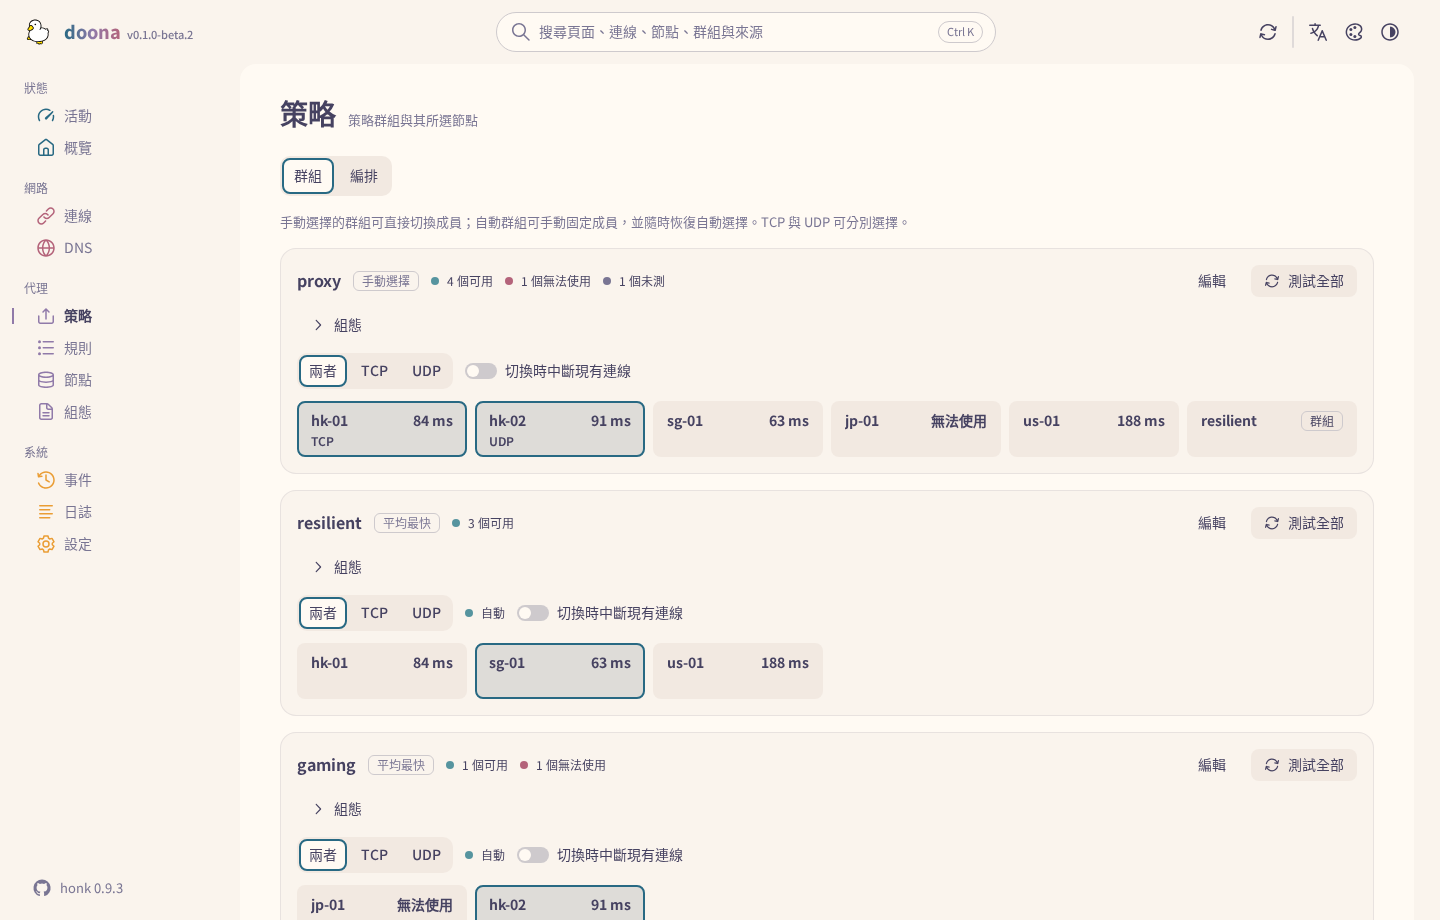
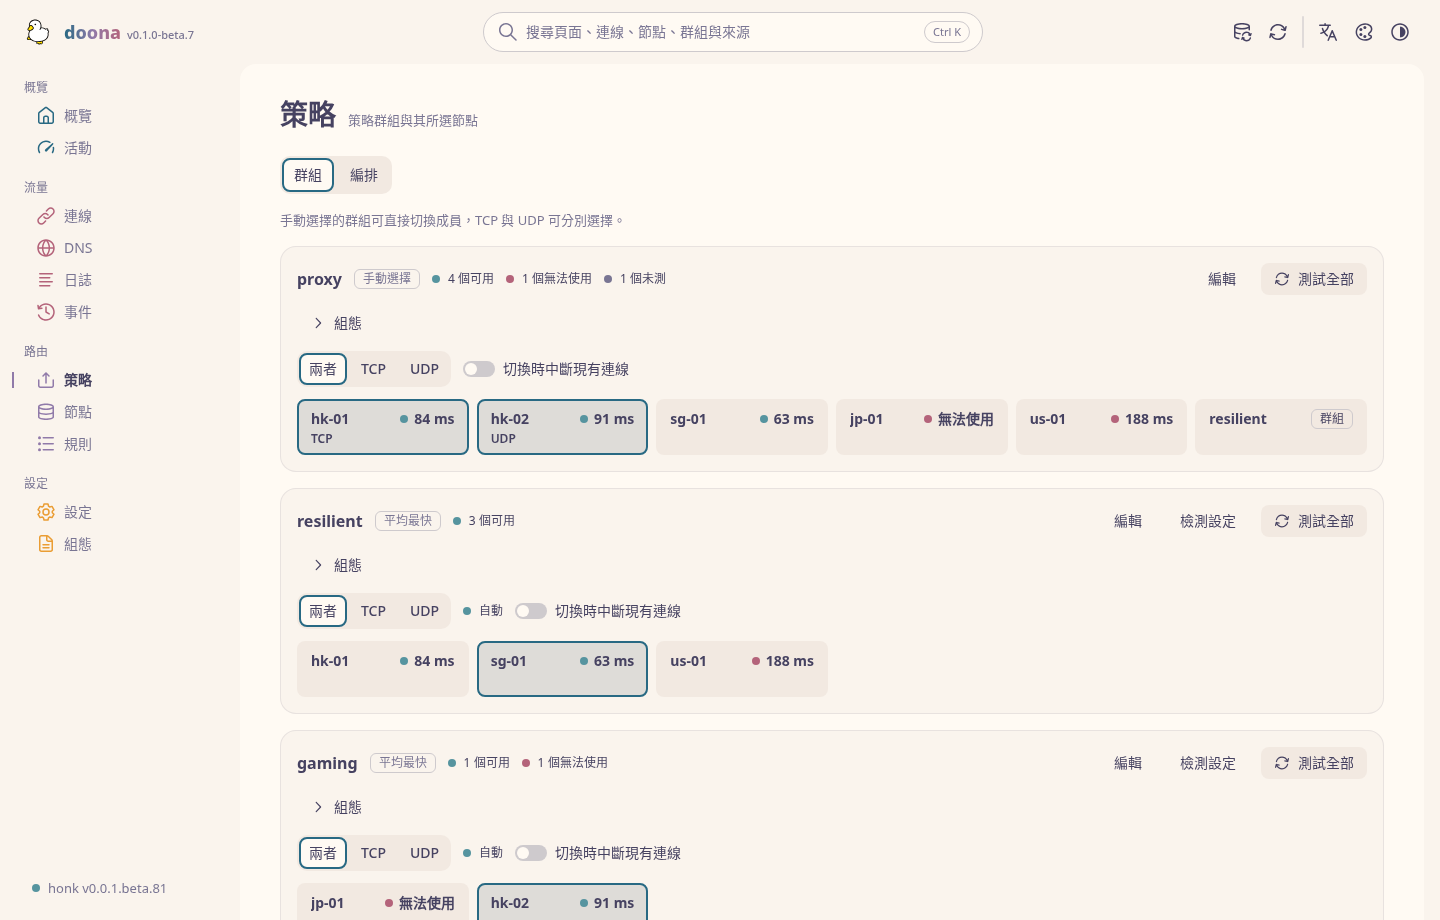
chore(release): prepare 0.1.0-beta.7
Refresh the three README tours for the current interface and document the changes since beta.6. Keep package recipes and download examples aligned with the release asset versions.

diff --git a/install/README.md b/install/README.md
@@ -19,21 +19,21 @@ archive hashes in `SHA256SUMS`.
 
 ## Version spellings
 
-The recipes use tag `v0.1.0-beta.6`. Release assets keep the upstream version without the tag's `v`;
+The recipes use tag `v0.1.0-beta.7`. Release assets keep the upstream version without the tag's `v`;
 package metadata follows each package manager's ordering rules. The same names and versions apply to `doona-fonts`.
 
 | Format           | `doona` asset                                 | Version in package or recipe                       |
 | ---------------- | --------------------------------------------- | -------------------------------------------------- |
-| Program archive  | `doona-0.1.0-beta.6.tar.gz`                   | n/a                                                |
-| Fonts archive    | `doona-fonts-0.1.0-beta.6.tar.gz`             | n/a                                                |
-| Debian           | `doona_0.1.0-beta.6-1_all.deb`                | `0.1.0~beta.6-1`                                   |
-| RPM              | `doona-0.1.0-beta.6-1.noarch.rpm`             | Version `0.1.0~beta.6`, Release `1`                |
-| OpenWrt ipk      | `doona_0.1.0-beta.6-1_all.ipk`                | `0.1.0~beta.6-1`                                   |
-| Arch             | `doona-0.1.0beta6-1-any.pkg.tar.zst`          | pkgver `0.1.0beta6`, pkgrel `1`, default epoch `0` |
-| Alpine APKBUILD  | Download the program and fonts archives above | pkgver `0.1.0_beta6`, pkgrel `0`                   |
-| Gentoo ebuild    | Download the program and fonts archives above | PV `0.1.0_beta6`                                   |
-| OpenWrt Makefile | Download the program and fonts archives above | PKG_VERSION `0.1.0_beta6`, PKG_RELEASE `1`         |
-| Nix recipe       | Download the program and fonts archives above | `0.1.0-beta.6`                                     |
+| Program archive  | `doona-0.1.0-beta.7.tar.gz`                   | n/a                                                |
+| Fonts archive    | `doona-fonts-0.1.0-beta.7.tar.gz`             | n/a                                                |
+| Debian           | `doona_0.1.0-beta.7-1_all.deb`                | `0.1.0~beta.7-1`                                   |
+| RPM              | `doona-0.1.0-beta.7-1.noarch.rpm`             | Version `0.1.0~beta.7`, Release `1`                |
+| OpenWrt ipk      | `doona_0.1.0-beta.7-1_all.ipk`                | `0.1.0~beta.7-1`                                   |
+| Arch             | `doona-0.1.0beta7-1-any.pkg.tar.zst`          | pkgver `0.1.0beta7`, pkgrel `1`, default epoch `0` |
+| Alpine APKBUILD  | Download the program and fonts archives above | pkgver `0.1.0_beta7`, pkgrel `0`                   |
+| Gentoo ebuild    | Download the program and fonts archives above | PV `0.1.0_beta7`                                   |
+| OpenWrt Makefile | Download the program and fonts archives above | PKG_VERSION `0.1.0_beta7`, PKG_RELEASE `1`         |
+| Nix recipe       | Download the program and fonts archives above | `0.1.0-beta.7`                                     |
 
 The beta binary recipes were last exercised against a local `pnpm package` build: `abuild -r` in an Alpine 3.22
 container, the OpenWrt SDK for 24.10 (ipk) and 25.12 (apk), and nfpm 2.47 for deb, rpm, ipk and Arch, each
@@ -42,7 +42,7 @@ and 25.12, Alpine 3.22), and the ebuild through `pkgcheck scan` and `emerge` in 
 keyworded untested; the overlay's CI installs it). The recipes need new release hashes before submission.
 
 The overlay's `AGENTS.md` governs the ebuild's submission: commit with `pkgdev commit --scan false --signoff`
-under the subject `net-proxy/doona: new package, add 0.1.0_beta6`, keep the `Manifest` in the same commit, and add
+under the subject `net-proxy/doona: new package, add 0.1.0_beta7`, keep the `Manifest` in the same commit, and add
 a `.github/workflows/overlay.toml` entry in `category/package` order. The semver beta tag maps onto the
 ebuild's pre-release version with this overlay rule:
 

diff --git a/README.md b/README.md
@@ -47,10 +47,10 @@ doona targets the native API implemented by honk's `feat/native-api` branch; tha
 
 ## Install
 
-Release archives (`doona-<version>.tar.gz`, the optional `doona-fonts-<version>.tar.gz` with Noto Sans TC and SC, and `SHA256SUMS`) are attached to tags on the [releases page](https://github.com/Zakkaus/doona/releases); until the first tag, build them yourself as described under [Development](#development). Verify and extract the files into the directory the engine or web server will serve:
+Release archives (`doona-<version>.tar.gz`, the optional `doona-fonts-<version>.tar.gz` with Noto Sans TC and SC, and `SHA256SUMS`) are attached to tags on the [releases page](https://github.com/Zakkaus/doona/releases). Build from source as described under [Development](#development). Verify and extract the files into the directory the engine or web server will serve:
 
 ```sh
-VERSION=v0.1.0-beta.6  # replace with the downloaded release tag
+VERSION=0.1.0-beta.7  # replace with the downloaded release version, without v
 sha256sum --ignore-missing -c SHA256SUMS
 sudo mkdir -p /usr/share/doona
 sudo tar -xzf "doona-${VERSION}.tar.gz" -C /usr/share/doona
@@ -93,15 +93,15 @@ The activity page then shows the running engine. Add a subscription or paste sha
 | Page          | Shows                                                                                                           |
 | ------------- | --------------------------------------------------------------------------------------------------------------- |
 | Activity      | Outbound mode, traffic and memory, active connections, node latency, outbound usage, top clients, notifications |
-| Overview      | Engine and eBPF state, traffic counters, backend capabilities, the status as JSON                               |
-| Connections   | Live connections with source, destination, rule, chain and traffic; close one or all                            |
+| Overview      | Engine and eBPF state, process CPU, traffic counters, backend capabilities, the status as JSON                  |
+| Connections   | Live connections with source, destination, rule, chain, traffic and transfer rates; close one or all            |
 | DNS           | Queries with their answers, the cache, the log; a flush                                                         |
-| Policies      | Groups, their members and health; selection, pinning, probing and editing                                       |
+| Policies      | Groups, their members and health; selection, pinning, probing, editing and health-check URLs                    |
 | Rules         | A routing tree from rules or devices through outbounds to nodes, the rule list with hits, the flow log, a trace |
 | Nodes         | Subscriptions and their refresh interval, inline nodes, add and remove, probe and join a group                  |
-| Configuration | Sources with diagnostics, an editor with validation, quick setup and export                                     |
+| Configuration | Create and edit source files, diagnostics, validation, quick setup and export                                   |
 | Events, Logs  | The backend event stream; the log stream with filters, pause and export                                         |
-| Settings      | Backends, runtime settings and backend actions, language, appearance and palette                                |
+| Settings      | Backends, runtime settings and backend actions, language, appearance, palette and notification placement        |
 
 A page is marked unavailable only when every resource it needs is unavailable. `Ctrl K` searches pages, connections, nodes, groups, rules and sources from anywhere. Which resources each page needs, and where doona keeps its own settings, are in the [guide](docs/guide.md#pages).
 

diff --git a/CHANGELOG.md b/CHANGELOG.md
@@ -2,6 +2,38 @@
 
 This changelog follows [Keep a Changelog](https://keepachangelog.com/en/1.1.0/) and uses [Semantic Versioning](https://semver.org/spec/v2.0.0.html).
 
+## [0.1.0-beta.7] - 2026-09-27
+
+### Added
+
+- Overview shows the backend process's CPU usage.
+- Connections shows each connection's upload and download rates, calculated from successive samples.
+- Policies lets you edit a group's health-check URL.
+- Configuration can create a new source file when the backend supports it.
+- A failed first fetch of a new subscription offers Retry in its toast; a new build offers Reload. Toasts with actions remain until dismissed or used.
+- Settings lets you place notifications at the top or bottom, centred or aligned to the end.
+
+### Changed
+
+- Toasts keep their status colours and separate the summary from backend details. Show all and action buttons share a footer on desktop and phones; request IDs stay in the console instead of the toast.
+- Desktop tabs are 34 pixels tall, name lists use consistent sorting, and equally sized connection filter groups keep a stable order.
+- Configuration shows module sections from read-only includes and groups repeated diagnostics.
+- README screenshots reflect the current desktop and phone layouts in all three languages.
+
+### Fixed
+
+- Configuration completion reads groups from every source and preserves each group header's original quotes. Quick setup preserves the same names in generated routing rules.
+- After a conflicting source save, the editor keeps the draft and uses the refreshed source as its next save's base. Reloading clears validation results from the previous generation.
+- Activity finds the outbound mode line by its marker rather than its position in the file.
+- DNS rejects an invalid device address without dropping the last valid filter. Closing one connection no longer clears another connection opened while the request was pending.
+- The routing map waits for its nodes before settling. Connection rates discard baselines from lists no longer held by the store.
+- Retrying a refused event stream reconnects it, recovered capability errors clear, and a refused first-page request is not repeated without a cursor.
+- Settings can sign in again after signing out, distinguishes a rejected token from a connection failure, and reports unavailable session storage as a storage error.
+- Geodata preset changes ask for confirmation when they lack categories used by the configuration. Operation errors identify the failed stage when the backend provides it.
+- Paused logs show the held record count. Gap summaries omit a zero dropped count, and Activity notice summaries align in one column.
+- Long backend versions end with an ellipsis; available backend capabilities use a status dot.
+- A pending keyboard navigation prefix clears when the filter shortcut has no field to focus, and near-viewport content keeps its observer across callback changes.
+
 ## [0.1.0-beta.6] - 2026-09-26
 
 ### Added
@@ -221,6 +253,7 @@ This changelog follows [Keep a Changelog](https://keepachangelog.com/en/1.1.0/) 
 
 - Keep table columns and action cells visible and prevent cards and controls from overflowing.
 
+[0.1.0-beta.7]: https://github.com/Zakkaus/doona/compare/v0.1.0-beta.6...v0.1.0-beta.7
 [0.1.0-beta.6]: https://github.com/Zakkaus/doona/compare/v0.1.0-beta.5...v0.1.0-beta.6
 [0.1.0-beta.5]: https://github.com/Zakkaus/doona/compare/v0.1.0-beta.4...v0.1.0-beta.5
 [0.1.0-beta.4]: https://github.com/Zakkaus/doona/compare/v0.1.0-beta.3...v0.1.0-beta.4

diff --git a/CONTRIBUTING.md b/CONTRIBUTING.md
@@ -111,7 +111,7 @@ and number pre-releases as `-alpha.N`, `-beta.N` or `-rc.N`. Tag each tested
 release `vX.Y.Z[-pre.N]`. Mark GitHub releases for pre-release versions as
 pre-releases. Update the declared version and changelog before tagging.
 
-For tag `v0.1.0-beta.6`, release assets keep the upstream version without `v`. See the
+For tag `v0.1.0-beta.7`, release assets keep the upstream version without `v`. See the
 [package version table](install/README.md#version-spellings) for every archive, binary package and source recipe.
 
 ## Update the contract
